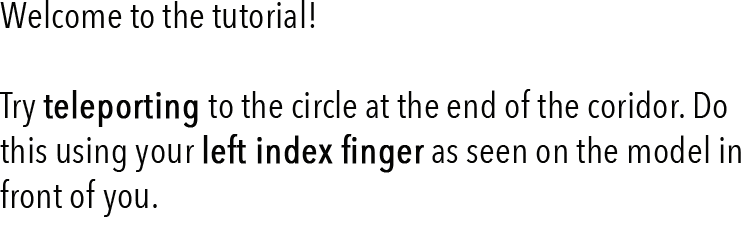
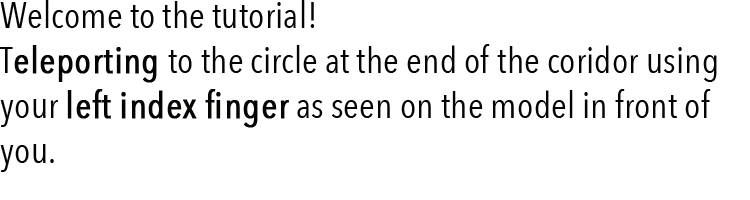
fixed the text for diagrams and fixed inor stuff with circle

Changed region(s): [[0.0, 0.21, 1.0, 0.69], [0.0, 0.0, 0.4293, 0.15], [0.0, 0.72, 0.2147, 0.87]]

diff --git a/tutorial.html b/tutorial.html
@@ -60,14 +60,14 @@
 
           // Scene 2
 
-          if(moveDiagramPosX!=3.5 || moveDiagramPosY!=0.5 || moveDiagramPosZ -9){
+          if(moveDiagramPosX!=3.5 || moveDiagramPosY!=0.5 || moveDiagramPosZ != -9){
             moved = true;
           }
 
           if(moved){
             // textMove.setAttribute('visible', false);
             /* moveDiagram.setAttribute('visible', false); */
-            circleEl.setAttribute('position', {x: 3.5, y: 0, z: -11});
+            circleEl.setAttribute('position', {x: 3.5, y: 0, z: -12});
 
             circleEl.setAttribute('visible', true);
             rotateDiagram.setAttribute('visible', true);
@@ -206,13 +206,7 @@
       <a-entity id="txtPortal" position="0.2 2.3 -18" rotation="0 0 0" scale="1 1 1" visible="false"  camera-listener>
         <a-image src="#imgPortal" width="3" height="1" side="both"></a-image>
       </a-entity>
-      
 
-      <!-- <a-entity progressive-controls="objects: .cube; maxLevel: point">
-        <a-entity id="controller1" class="right-controller" super-hands="grabEndButtons: triggerup; grabStartButtons: triggerdown;"
-          rotation-controller></a-entity>
-        <a-entity id="controller2" class="left-controller" teleport-controls="button: trigger; collision-entities: #floor" raycaster="objects: .a; showLine: false;"></a-entity>
-      </a-entity> -->
       <!-- Correct controllers I think -->
         <a-entity id="rig" progressive-controls="objects: .diagram, a-link; maxLevel: point">
           <a-entity id="controller1" class="right-controller" 
